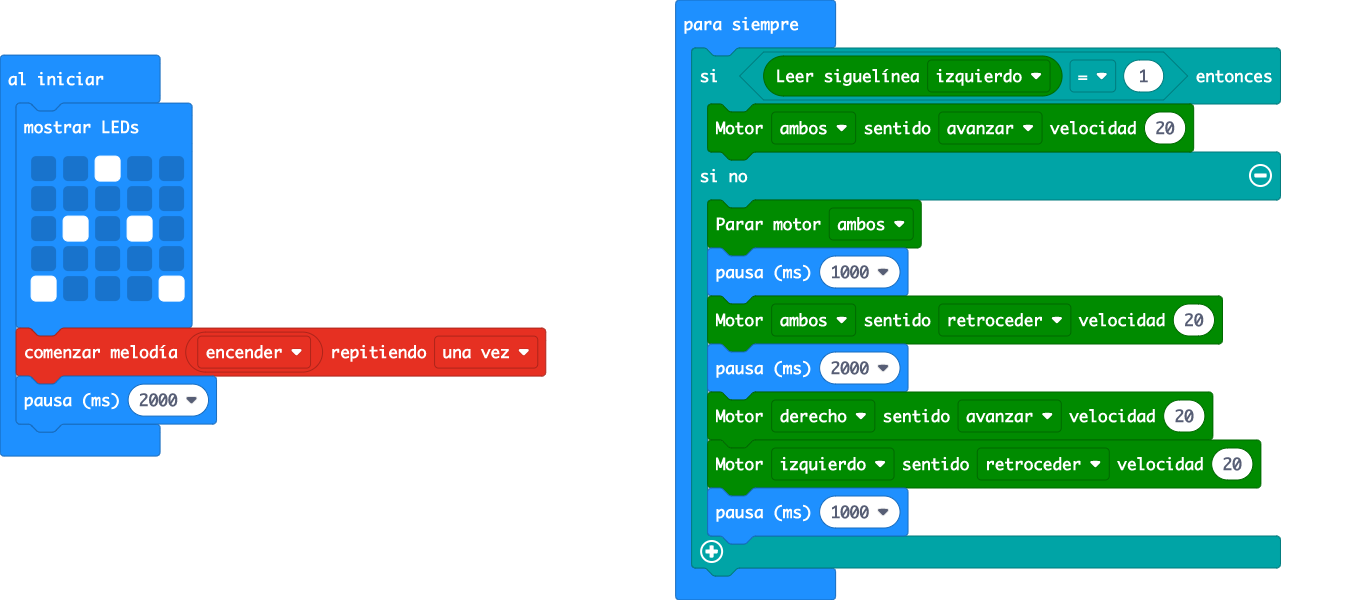
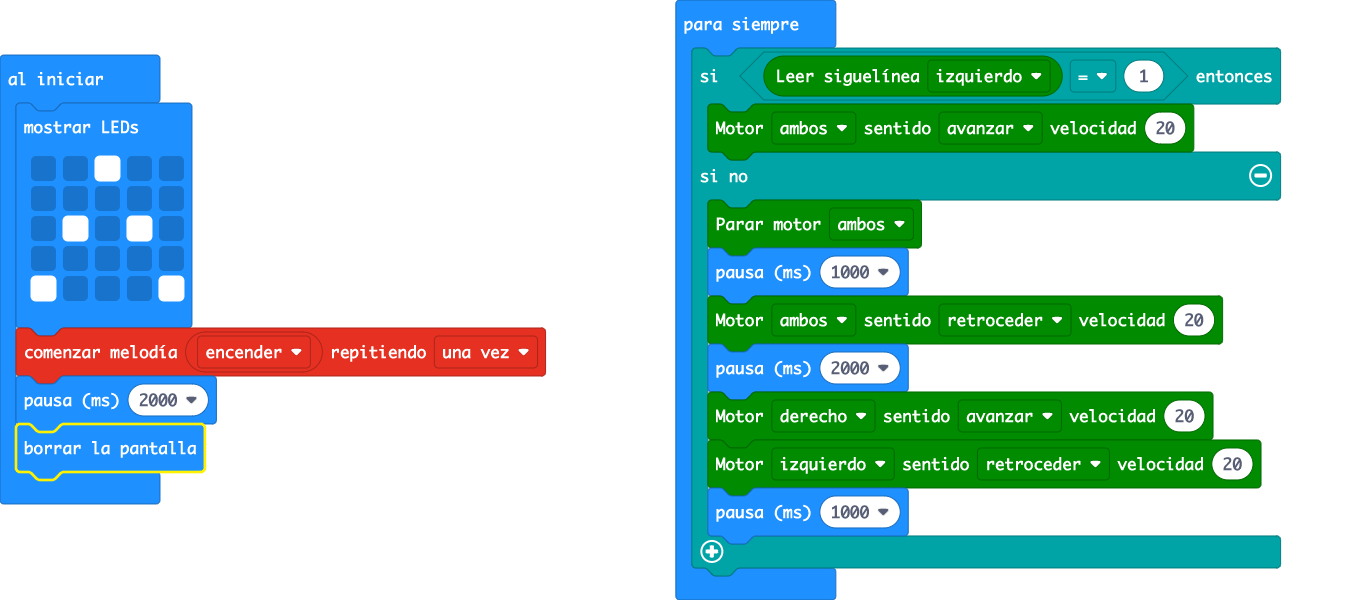
Actualizar main.blocks, main.ts

diff --git a/main.ts b/main.ts
@@ -7,6 +7,7 @@ basic.showLeds(`
     `)
 music.startMelody(music.builtInMelody(Melodies.PowerUp), MelodyOptions.Once)
 basic.pause(2000)
+basic.clearScreen()
 basic.forever(function () {
     if (maqueen.readPatrol(maqueen.Patrol.PatrolLeft) == 1) {
         maqueen.motorRun(maqueen.Motors.All, maqueen.Dir.CW, 20)
